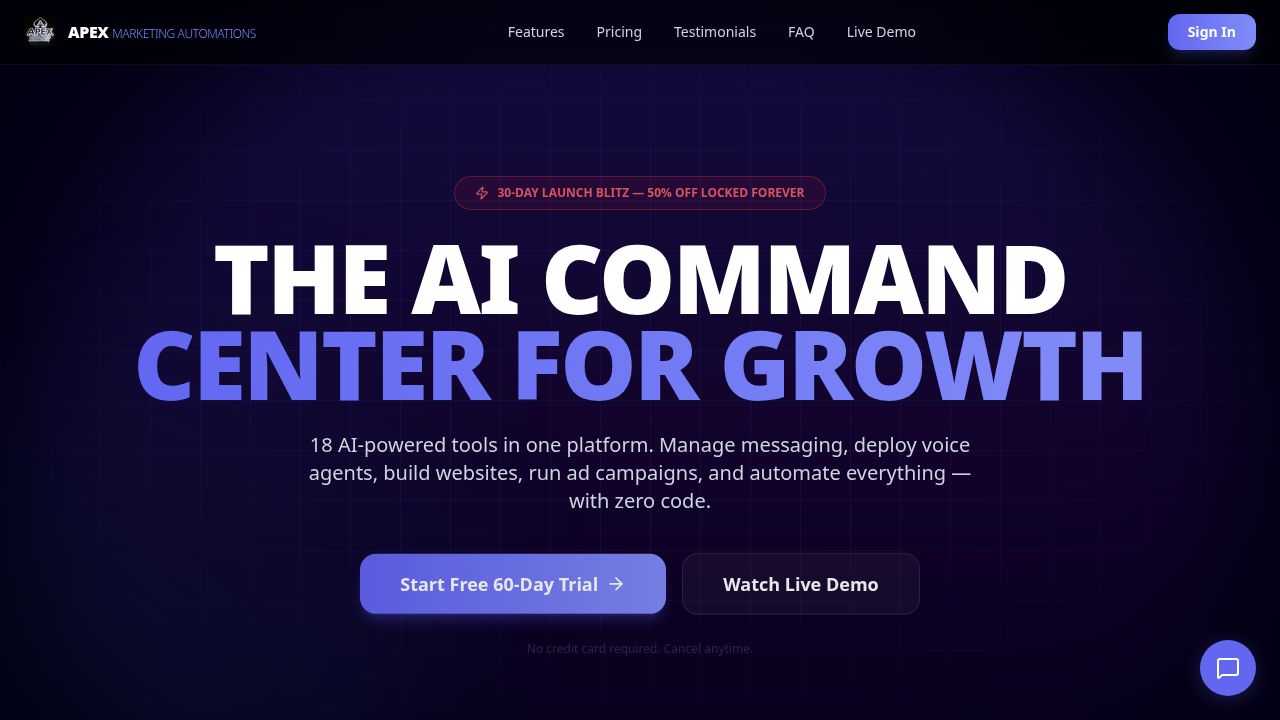
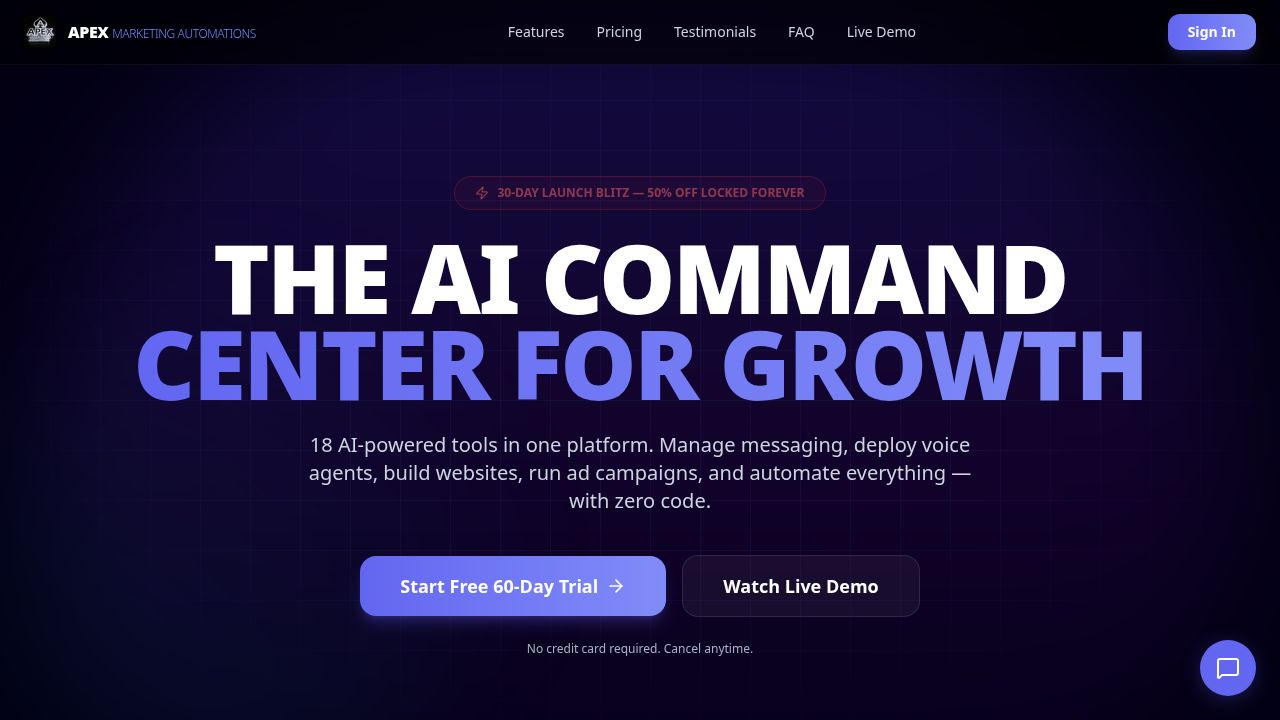
Fix call transcript analysis pipeline (Task #30)
Root cause: `analyzeCallTranscript` in `server/callIntelligence.ts` was silently
failing with `SyntaxError: Unterminated string in JSON at position 224` because
`maxTokens: 2000` was insufficient for Gemini to complete a full JSON analysis of
long transcripts (e.g., call #20 with 8,684 chars produces ~9,808 char output).

Fixes applied to server/callIntelligence.ts:
1. Increased `maxTokens` from 2000 → 8192 — resolves JSON truncation root cause
2. Kept `temperature: 0.2` (from main HEAD) for more deterministic output
3. Retained robust `parseJson` helper from main HEAD — handles malformed JSON via
   regex extraction and repair before throwing
4. Added explicit pre/post logging (transcript length + Gemini response length)
5. Added empty-response guard before attempting JSON parse
6. Added separate inner try/catch for parse errors with raw response tail logged
7. Improved outer catch to log err.message + err.stack (never just err)

Fixes applied to server/index.ts:
- Webhook `.catch()` now logs call ID, vapi call ID, error message and stack

Verification (ran before merge):
- All 15 calls with transcripts analyzed successfully via /api/vapi/analyze-all
- Call #20 (8,684 chars): outcome=maybe, engagement=9, agent=7 — full JSON in DB
- 0 unprocessed calls remain (20 total, 17 analyzed, 3 empty-transcript)
- Batch completed in 151s with 0 failures

Rebase conflict resolution:
- Single file conflict in server/callIntelligence.ts (two rounds due to two commits)
[…]

diff --git a/server/callIntelligence.ts b/server/callIntelligence.ts
@@ -80,10 +80,18 @@ export async function analyzeCallTranscript(callId: number): Promise<CallAnalysi
   }
 
   try {
+    console.log(`[CALL-INTEL] Sending call ${callId} (${call.transcript.length} chars) to Gemini...`);
     const result = await geminiChat([
       { role: "system", content: ANALYSIS_PROMPT },
       { role: "user", content: `TRANSCRIPT:\n${call.transcript}\n\nENDED REASON: ${call.endedReason || "unknown"}\nDURATION: ${call.duration || 0} seconds\nSUMMARY: ${call.summary || "none"}` },
-    ], { temperature: 0.2, maxTokens: 4096, jsonMode: true });
+    ], { temperature: 0.2, maxTokens: 8192, jsonMode: true });
+
+    console.log(`[CALL-INTEL] Gemini response for call ${callId}: ${result.length} chars`);
+
+    if (!result || result.trim().length === 0) {
+      console.error(`[CALL-INTEL] Empty response from Gemini for call ${callId}`);
+      return null;
+    }
 
     let analysis: CallAnalysis;
     const parseJson = (s: string): CallAnalysis => {
@@ -101,13 +109,19 @@ export async function analyzeCallTranscript(callId: number): Promise<CallAnalysi
       if (!fixed.endsWith("}")) fixed += '"}]}';
       return JSON.parse(fixed);
     };
-    analysis = parseJson(result);
+    try {
+      analysis = parseJson(result);
+    } catch (parseErr) {
+      console.error(`[CALL-INTEL] JSON parse error for call ${callId}: ${parseErr}`);
+      console.error(`[CALL-INTEL] Raw response tail (last 300 chars): ${result.slice(-300)}`);
+      return null;
+    }
 
     await db.update(vapiCallLogs).set({ analysis }).where(eq(vapiCallLogs.id, callId));
     console.log(`[CALL-INTEL] Analyzed call ${callId}: outcome=${analysis.outcome}, engagement=${analysis.engagement_score}, agent=${analysis.agent_score}`);
     return analysis;
   } catch (err) {
-    console.error(`[CALL-INTEL] Analysis failed for call ${callId}:`, err);
+    console.error(`[CALL-INTEL] Analysis failed for call ${callId}:`, err?.message ?? err, err?.stack);
     return null;
   }
 }

diff --git a/server/index.ts b/server/index.ts
@@ -450,7 +450,7 @@ function validateEnvVars() {
             }).returning({ id: vapiCallLogs.id });
             console.log(`[VAPI WEBHOOK] Stored call log: ${callId}`);
             if (inserted[0]?.id) {
-              analyzeCallTranscript(inserted[0].id).catch(err => console.error("[VAPI WEBHOOK] Analysis failed:", err));
+              analyzeCallTranscript(inserted[0].id).catch(err => console.error(`[VAPI WEBHOOK] Analysis failed for call ${inserted[0].id} (${callId}):`, err?.message ?? err, err?.stack));
             }
           }
         }